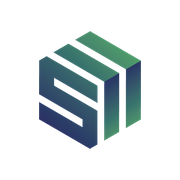
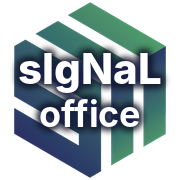
アイコンをロゴ背景＋sIgNaL office表記に変更
Claude-Session: https://claude.ai/code/session_018AfoaZzYY5b6cgXQUPVpS3

diff --git a/sw.js b/sw.js
@@ -1,5 +1,5 @@
 // 画面ファイルだけを保存（取引データは保存しない）。常に最新を優先して取得します。
-const CACHE = 'signal-torihiki-v2';
+const CACHE = 'signal-torihiki-v3';
 const SHELL = ['./', './index.html', './manifest.webmanifest', './icon-192.png', './icon-512.png', './apple-touch-icon.png'];
 self.addEventListener('install', e => { e.waitUntil(caches.open(CACHE).then(c => c.addAll(SHELL))); self.skipWaiting(); });
 self.addEventListener('activate', e => { e.waitUntil(caches.keys().then(ks => Promise.all(ks.filter(k => k !== CACHE).map(k => caches.delete(k))))); self.clients.claim(); });
